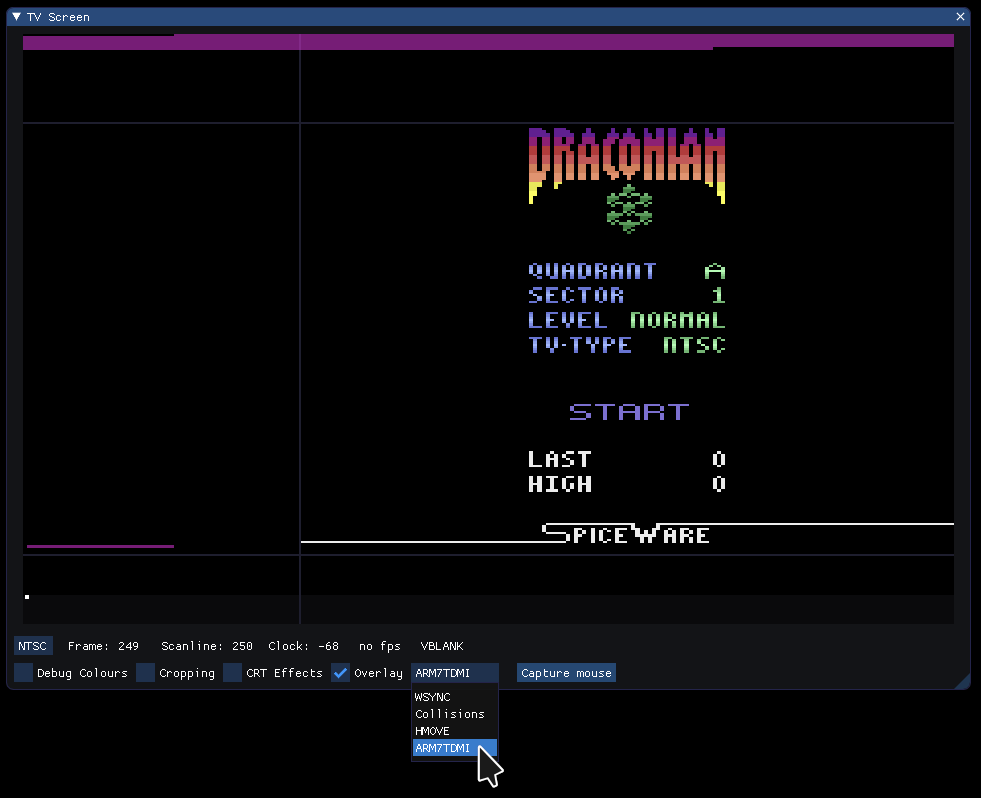
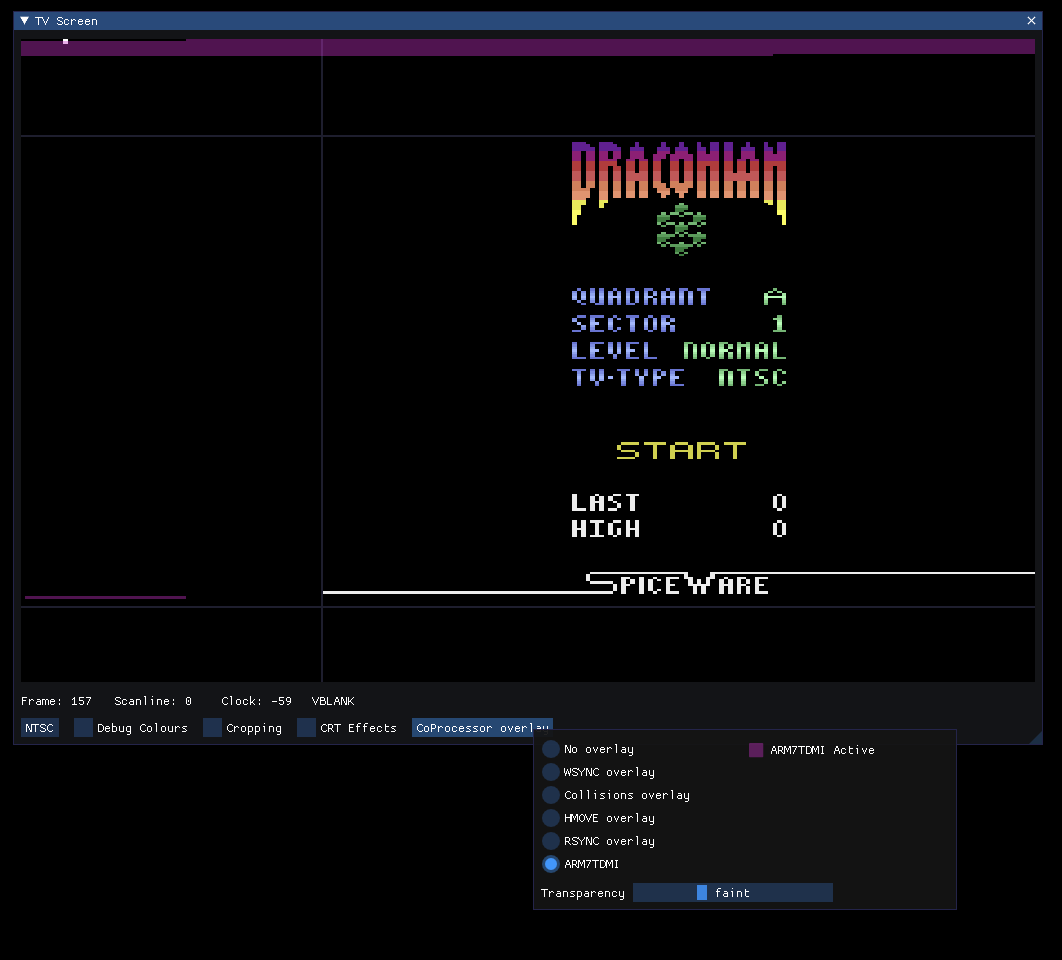
updated README

diff --git a/README.md b/README.md
@@ -28,9 +28,11 @@ The following screenshots were taken in playmode with CRT effects enabled
 <img src=".screenshots/games/pitfall.png" height="200" alt="pitfall"/> <img src=".screenshots/games/heman.png" height="200" alt="he-man"/>
 <img src=".screenshots/games/krull.png" height="200" alt="krull"/> <img src=".screenshots/games/ladybug.png" height="200" alt="ladybug"/>
 <img src=".screenshots/games/thrust.png" height="200" alt="thrust"/> <img src=".screenshots/games/pandachase.png" height="200" alt="panda chase"/>
-<img src=".screenshots/games/mangoesdown.png" height="200" alt="man goes down"/>
+<img src=".screenshots/games/mangoesdown.png" height="200" alt="man goes down"/> <img src=".screenshots/games/beast.png" height="200" alt="legacy of the beast"/>
 <img src=".screenshots/games/chiphead.png" height="200" alt="chiphead"/> <img src=".screenshots/games/genesis.png" height="200" alt="egypt genesis"/>
 <img src=".screenshots/games/draconian.png" height="200" alt="draconian"/> <img src=".screenshots/games/zevious.png" height="200" alt="zevious"/>
+
+Games shown: Pitfall; He-Man; Krull; Ladybug; Thrust; Panda Chase; Man Goes Down; [Legacy of the Beast](https://aeriform.itch.io/beast); Chiphead; Egypt 2600BC by Genesis Project; Draconian; Zevious.
 
 ## Scope of the project
 
@@ -136,15 +138,33 @@ Although if want to pass flags to the run mode you'll need to specify it.
 
 ## Hand Controllers
 
-Joystick, paddle and keypad inputs are supported. Currently, only joysticks and paddles for the left player are available. 
+Joystick, paddle and keypad inputs are supported. Currently, only joysticks and
+paddles for the left player are available but keypad input is available for
+both players.
 
-The joystick is operated via the cursor keys on the keyboard and the spacebar in place of the fire button. Gamepad support will be added in the future.
+#### Gamepad
 
-The paddle is available by operating the mouse. To activate the paddle,
-right-mouse-click  the play window and waggle the mouse a few times.
-Note that once the window has been right-clicked, the mouse will be captured
-and the pointer will disappear. To "release" the mouse, click the right-mouse
-button or the escape key.
+For conveniece the joystick and paddle can be controlled through a gamepad. Use
+the DPad and any of the face buttons for joystick control.
+
+To control the paddle use either the left analogue stick or the analogue
+triggers. Note that you will need to 'waggle' the stick/triggers a couple of
+time for the emulator to detect that you want to switch to the paddle.
+
+The console's reset switch can be triggered with the gamepad's start button.
+
+#### Without A Gamepad
+
+As an alternative to the gamepad, the joystick can controlled with the cursor
+keys of the keyboard. The spacebar will act as the joystick's fire button.
+
+The paddle can be accessed with the computer's mouse. First, capture the mouse
+by right-clicking the emulator's window and then waggle the mouse a few times
+to tell the emulator that you want to switch to the paddle. The left mouse
+button is the paddle's fire button.
+
+Once captured, press the right mouse button to release the mouse and return
+mouse control to your desktop,
 
 ### Keypad
 
@@ -185,7 +205,7 @@ To run the debugger use the `DEBUG` submode
 
 	> gopher2600 debug roms/Pitfall.bin
 
-<img src=".screenshots/debugger_frogger.png" height="400" alt="gopher2600 debugging GUI"/>
+<img src=".screenshots/debugger_halo2600.png" height="400" alt="gopher2600 debugging GUI"/>
 
 Becaus the debugger is still in development, full documentation not yet available. But briefly the features we can see in this screeshot are:
 
@@ -204,25 +224,25 @@ Below the menu-bar are the debugging windows. In this screenshot we can see:
 * The `TV Screen`. This shows the television output from the VCS.
 	* The screen is 'interactive' and will show information about the pixel underneath the cursor
 	* Clicking the screen will move the VCS emulation to the point where the VCS is outputting that pixel. This is part of the [rewind](#rewinding) system.
-	* Also available are a variety of `overlays`. Click the overlay toggle and select which overlay you want to show by selecting with the button to its right (labelled `WSYNC` in the screenshot).
+	* Also available are a variety of `overlays`. Click the overlay button (labelled `no overlay` in the screenshot and select which overlay you want.
 * The `Audio` window shows the waveform of the recent sound output.
 * The `Control` window allow you to `Run/Halt`, `Step` and also `rewind` through the emulation.
-	* The toggle to right of the `Run` button will put the emulation into `video-cycle` mode. This will allow you to step by a single color-clock at a time, rather than a single CPU instruction.
+	* The toggle to right of the `Step` button will put the emulation into `video-cycle` mode. This will allow you to step by a single color-clock at a time, rather than a single CPU instruction.
+	* The `<` buttons will step back by eith a CPU instruction, a scanline or an entire frame. Stepping back by video-cycle is not currently supported.
 * The `Timer` window shows the current state of the RIOT Timer.
 * The `CPU` window shows the current state of the 6507.
 * The `Disassembly` window shows the disassembled ROM.
 	* If a 'DASM' generated symbol file is available then that will be used.
 	* If a symbols file isn't available then the standard symbols will be used. This includes symbols for special cartridge areas that might exists. For example, a hotspot address for switching banks will be indicated with `BANK1`, `BANK2`, etc. instead of the address.
-	* If the cartridge does contain more than one bank then the banks will be viewable by selecting the relevant tab. In the screenshot above, the cartridge contains four banks.
-	* Add or remove a `PC Breakpoint` by clicking on the disasm entry.
+	* Add or remove a `PC Breakpoint` by clicking on the address.
 * The `RAM` window shows the contents of the VCS RAM. Cartidge RAM if available will be show in the `Cartridge RAM` window. Not shown but available through the cartridge menu when appropriate.
 	* The highlighted bytes indicate those bytes that have changed since the emulation last halted.	
 * The `TIA` window details the six graphical parts of the VCS's graphics chip.
-	* The state of the `TIA` can be changed manually but note that the changes will not be retained when the emulation next updates that part of the TIA. This will likely change in future versions of the program.
+	* The state of the `TIA` can be changed manually but note that the changes will not be retained when the emulation next updates that part of the TIA. 
 
-Note that much of the information presented in the windows is editable in-place. For example, the contents of the CPU's PC register can be edited via the window. As in all areas of this project, the user is encouraged to experiment.
+Note that much of the information presented in the windows is editable. For example, the contents of the CPU's PC register can be edited via the window. As in all areas of this project, the user is encouraged to experiment.
 
-A video of the debugger in action can be found [here](https://www.youtube.com/watch?v=3vLyRw8iVCA).
+A (old) video of the debugger in action can be found [here](https://www.youtube.com/watch?v=3vLyRw8iVCA).
 
 #### Debugger Terminal
 
